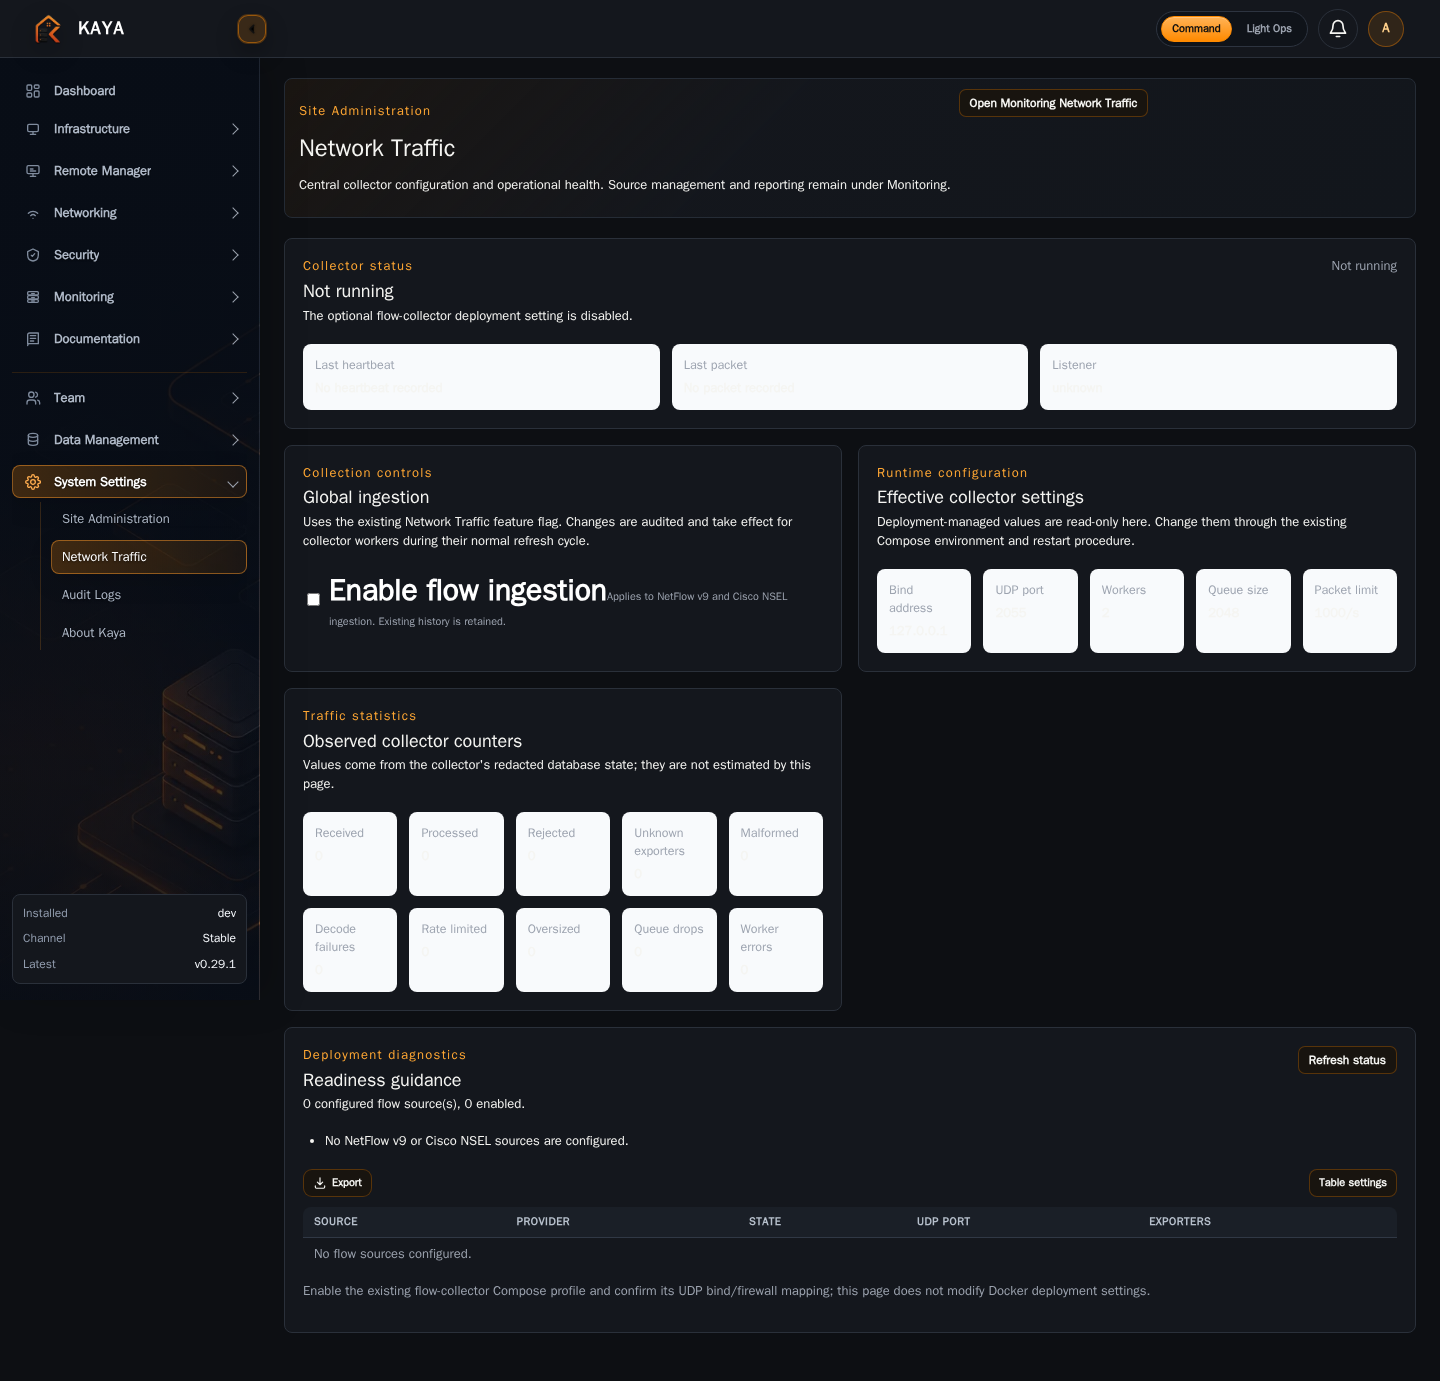
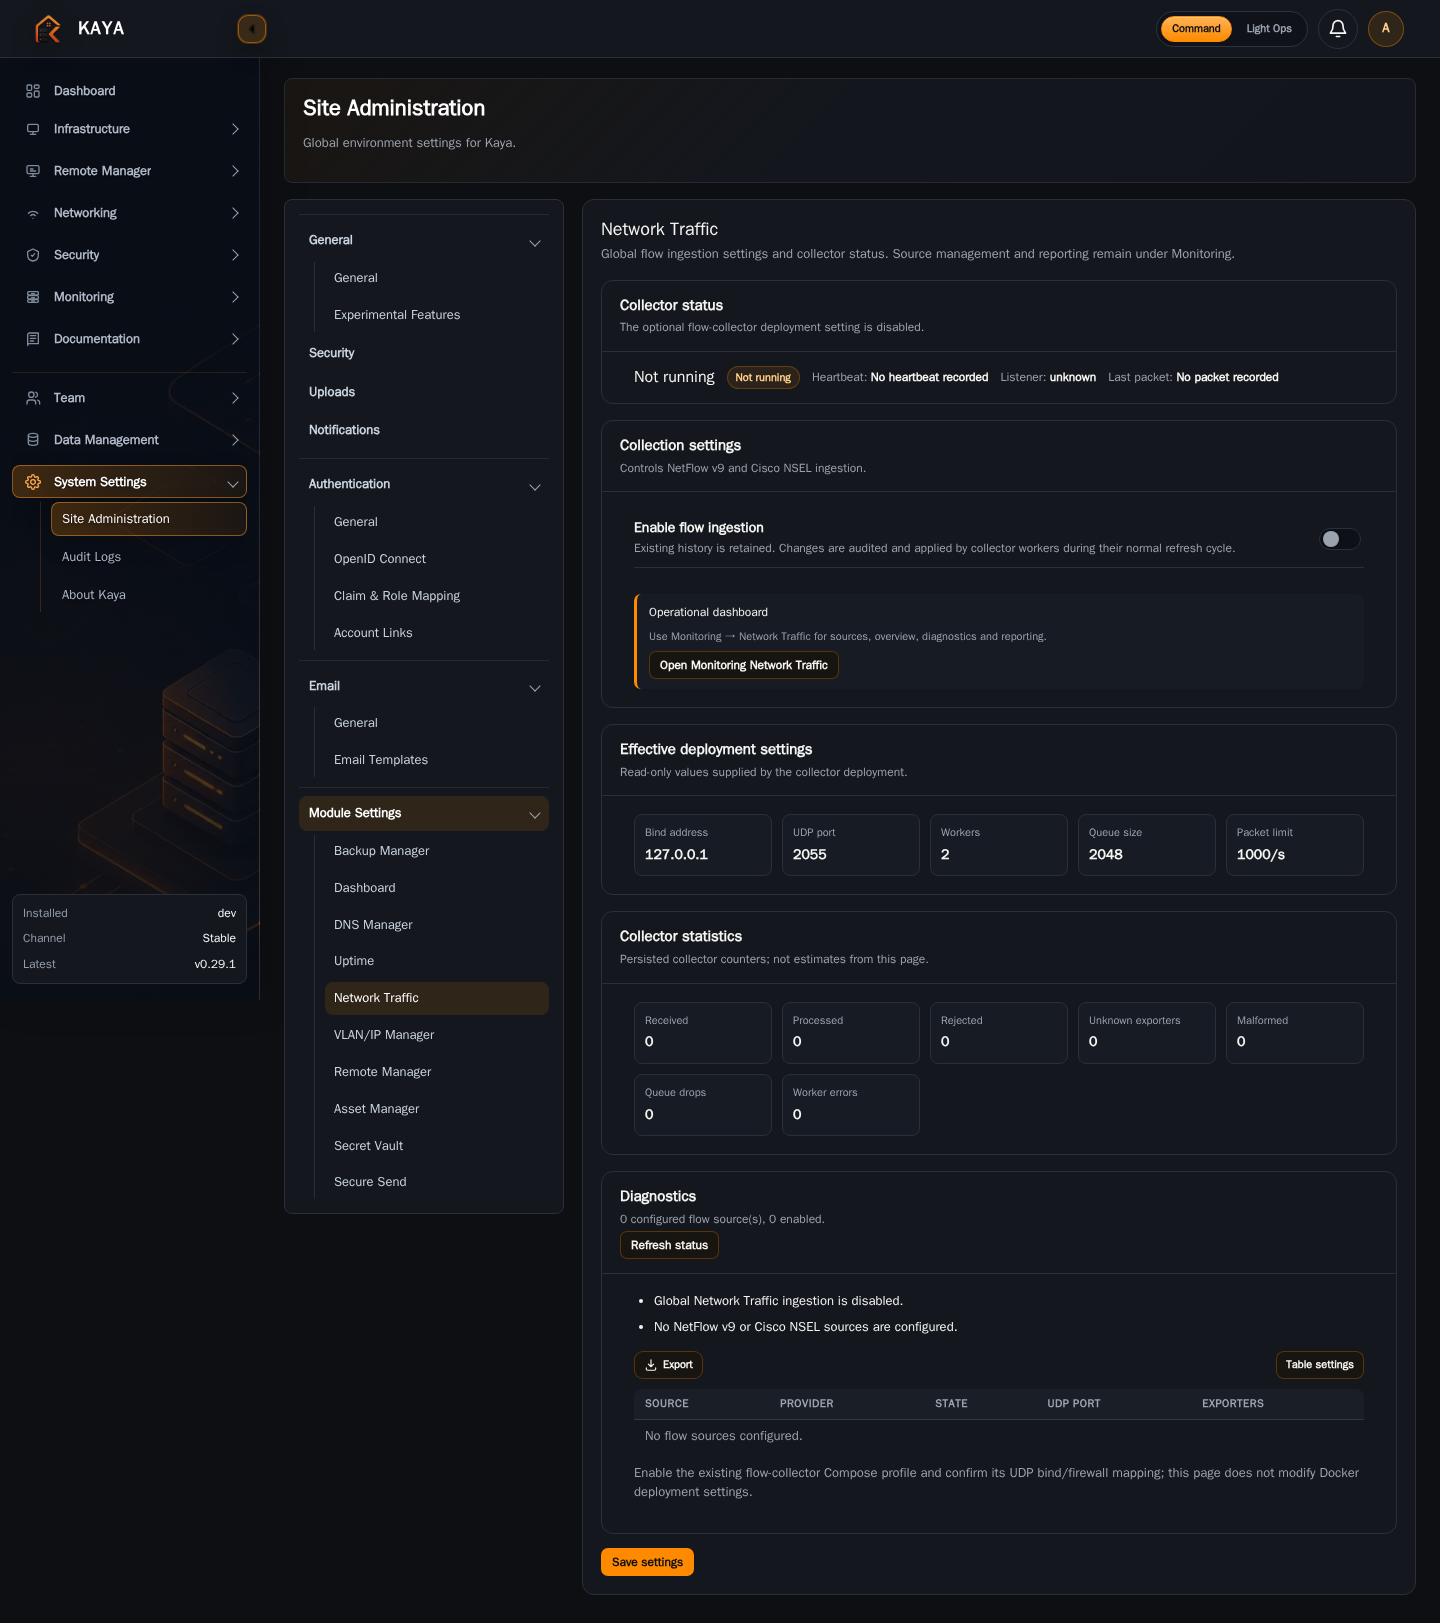
COmmit Network Traffic fix

diff --git a/app/templates/_network_traffic_admin_panel.html b/app/templates/_network_traffic_admin_panel.html
@@ -1,0 +1,35 @@
+<div class="network-traffic-admin-settings" data-network-traffic-admin data-csrf="{{ csrf_token }}">
+  <div class="ip-wan-admin-heading">
+    <h2>Network Traffic</h2>
+    <p class="muted">Global flow ingestion settings and collector status. Source management and reporting remain under Monitoring.</p>
+  </div>
+
+  <article class="remote-settings-card network-traffic-admin-status-card">
+    <header class="settings-card-heading"><span>Collector status</span><small data-admin-status-reason>{{ network_traffic_status.status_reason }}</small></header>
+    <div class="network-traffic-status-summary"><strong data-admin-status-label>{{ network_traffic_status.status_label }}</strong><span class="table-chip" data-admin-status>{{ network_traffic_status.status_label }}</span><span>Heartbeat: <b data-admin-heartbeat>{{ network_traffic_status.heartbeat_at or 'No heartbeat recorded' }}</b></span><span>Listener: <b data-admin-listener>{{ network_traffic_status.listener_state }}</b></span><span>Last packet: <b data-admin-last-packet>{{ network_traffic_status.last_packet_at or 'No packet recorded' }}</b></span></div>
+  </article>
+
+  <article class="remote-settings-card">
+    <header class="settings-card-heading"><span>Collection settings</span><small>Controls NetFlow v9 and Cisco NSEL ingestion.</small></header>
+    <div class="ip-wan-card-body">
+      <label class="remote-setting-row compact-toggle-row"><span><strong>Enable flow ingestion</strong><small>Existing history is retained. Changes are audited and applied by collector workers during their normal refresh cycle.</small></span><input class="remote-switch" type="checkbox" data-admin-enabled {% if network_traffic_status.global_enabled %}checked{% endif %}></label>
+      <p class="muted" data-admin-control-status></p>
+      <div class="settings-callout"><strong>Operational dashboard</strong><span>Use Monitoring → Network Traffic for sources, overview, diagnostics and reporting.</span><a class="button secondary" href="/networking/ip-wan-monitor/traffic">Open Monitoring Network Traffic</a></div>
+    </div>
+  </article>
+
+  <article class="remote-settings-card">
+    <header class="settings-card-heading"><span>Effective deployment settings</span><small>Read-only values supplied by the collector deployment.</small></header>
+    <div class="ip-wan-card-body"><dl class="admin-facts admin-facts-grid"><div><dt>Bind address</dt><dd data-admin-runtime="bind_address">{{ network_traffic_status.runtime.bind_address or 'Unknown' }}</dd></div><div><dt>UDP port</dt><dd data-admin-runtime="port">{{ network_traffic_status.runtime.port or 'Unknown' }}</dd></div><div><dt>Workers</dt><dd data-admin-runtime="workers">{{ network_traffic_status.runtime.workers or 'Unknown' }}</dd></div><div><dt>Queue size</dt><dd data-admin-runtime="queue_size">{{ network_traffic_status.runtime.queue_size or 'Unknown' }}</dd></div><div><dt>Packet limit</dt><dd data-admin-runtime="max_packets_per_second">{{ network_traffic_status.runtime.max_packets_per_second or 'Unknown' }}/s</dd></div></dl></div>
+  </article>
+
+  <article class="remote-settings-card">
+    <header class="settings-card-heading"><span>Collector statistics</span><small>Persisted collector counters; not estimates from this page.</small></header>
+    <div class="ip-wan-card-body"><dl class="admin-stat-grid">{% for key, label in [('packets_received','Received'),('packets_processed','Processed'),('packets_rejected','Rejected'),('unknown_exporters','Unknown exporters'),('malformed','Malformed'),('queue_drops','Queue drops'),('worker_errors','Worker errors')] %}<div><dt>{{ label }}</dt><dd data-admin-counter="{{ key }}">{{ network_traffic_status.counters[key] }}</dd></div>{% endfor %}</dl></div>
+  </article>
+
+  <article class="remote-settings-card network-traffic-admin-diagnostics">
+    <header class="settings-card-heading"><span>Diagnostics</span><small data-admin-source-summary>{{ network_traffic_status.sources.configured }} configured flow source(s), {{ network_traffic_status.sources.enabled }} enabled.</small><button class="button secondary" type="button" data-admin-refresh>Refresh status</button></header>
+    <div class="ip-wan-card-body"><ul data-admin-warnings>{% if network_traffic_status.warnings %}{% for warning in network_traffic_status.warnings %}<li>{{ warning }}</li>{% endfor %}{% else %}<li class="success">No known deployment warnings.</li>{% endif %}</ul><div class="admin-source-table-wrap"><table><thead><tr><th>Source</th><th>Provider</th><th>State</th><th>UDP port</th><th>Exporters</th></tr></thead><tbody data-admin-sources>{% for source in network_traffic_status.sources.rows %}<tr><th scope="row">{{ source.name }}</th><td>{{ source.provider }}</td><td>{{ 'Enabled' if source.enabled else 'Disabled' }} · {{ source.listener_state }}</td><td>{{ source.port or '—' }}</td><td>{{ source.exporter_count }}</td></tr>{% else %}<tr><td colspan="5" class="muted">No flow sources configured.</td></tr>{% endfor %}</tbody></table></div><p class="muted">{{ network_traffic_status.deployment_guidance }}</p></div>
+  </article>
+</div>

diff --git a/app/static/css/network_traffic_admin.css b/app/static/css/network_traffic_admin.css
@@ -1,1 +1,3 @@
-.network-traffic-admin-grid{display:grid;gap:16px;grid-template-columns:repeat(2,minmax(0,1fr));margin:20px auto;max-width:1280px}.network-traffic-admin-hero{align-items:flex-start}.network-traffic-admin-status-card,.network-traffic-admin-diagnostics{grid-column:1/-1}.network-traffic-admin-grid .card header{align-items:flex-start;display:flex;gap:16px;justify-content:space-between}.network-traffic-admin-grid h2{margin:4px 0}.network-traffic-admin-grid header p{margin:4px 0 0}.admin-facts,.admin-stat-grid{display:grid;gap:12px;margin:18px 0 0}.admin-facts{grid-template-columns:repeat(3,minmax(0,1fr))}.admin-facts-grid{grid-template-columns:repeat(5,minmax(0,1fr))}.admin-stat-grid{grid-template-columns:repeat(5,minmax(0,1fr))}.admin-facts div,.admin-stat-grid div{background:var(--surface-subtle,#f8fafc);border-radius:8px;padding:12px}.admin-facts dt,.admin-stat-grid dt{color:var(--muted);font-size:.78rem}.admin-facts dd,.admin-stat-grid dd{font-weight:750;margin:5px 0 0;overflow-wrap:anywhere}.admin-traffic-toggle{margin-top:18px}.network-traffic-admin-diagnostics ul{display:grid;gap:8px;margin:18px 0;padding-left:22px}.network-traffic-admin-diagnostics li{overflow-wrap:anywhere}.network-traffic-admin-diagnostics li.success{color:var(--success,#15803d);list-style:none;padding-left:0}.admin-source-table-wrap{overflow-x:auto}.admin-source-table-wrap table{border-collapse:collapse;width:100%}.admin-source-table-wrap th,.admin-source-table-wrap td{border-bottom:1px solid var(--border,#e2e8f0);padding:10px;text-align:left;white-space:nowrap}@media(max-width:900px){.network-traffic-admin-grid{grid-template-columns:1fr}.admin-facts,.admin-facts-grid,.admin-stat-grid{grid-template-columns:repeat(2,minmax(0,1fr))}}@media(max-width:520px){.network-traffic-admin-grid{margin:12px 0}.network-traffic-admin-grid .card header{display:block}.network-traffic-admin-grid header .button{margin-top:12px}.admin-facts,.admin-facts-grid,.admin-stat-grid{grid-template-columns:1fr}}
+.network-traffic-admin-settings{display:grid;gap:16px;max-width:1120px}.network-traffic-admin-settings .remote-settings-card{margin:0;max-width:none}.network-traffic-admin-settings .settings-card-heading{align-items:flex-start;display:flex;flex-wrap:wrap;gap:6px;justify-content:space-between}.network-traffic-admin-settings .settings-card-heading span{font-size:15px}.network-traffic-admin-settings .settings-card-heading small{color:var(--muted);font-size:12px;font-weight:650;max-width:720px}.network-traffic-status-summary{align-items:center;display:flex;flex-wrap:wrap;gap:12px;padding:14px 18px}.network-traffic-status-summary strong{font-size:16px}.network-traffic-status-summary>span:not(.table-chip){color:var(--muted);font-size:12px}.network-traffic-status-summary b{color:var(--text);font-weight:750}.network-traffic-admin-settings .admin-facts,.network-traffic-admin-settings .admin-stat-grid{display:grid;gap:10px;margin:0}.admin-facts{grid-template-columns:repeat(3,minmax(0,1fr))}.admin-facts-grid{grid-template-columns:repeat(5,minmax(0,1fr))}.admin-stat-grid{grid-template-columns:repeat(auto-fit,minmax(120px,1fr))}.admin-facts div,.admin-stat-grid div{background:color-mix(in srgb,var(--panel2) 62%,transparent);border:1px solid var(--line);border-radius:8px;padding:10px}.admin-facts dt,.admin-stat-grid dt{color:var(--muted);font-size:11px}.admin-facts dd,.admin-stat-grid dd{font-size:14px;font-weight:800;margin:4px 0 0;overflow-wrap:anywhere}.network-traffic-admin-settings .admin-traffic-toggle{margin:0}.network-traffic-admin-settings .settings-callout{align-items:start;display:grid;gap:7px;max-width:760px}.network-traffic-admin-settings .settings-callout .button{justify-self:start}.network-traffic-admin-diagnostics ul{display:grid;gap:7px;margin:0 0 14px;padding-left:20px}.network-traffic-admin-diagnostics li{overflow-wrap:anywhere}.network-traffic-admin-diagnostics li.success{color:var(--accent2);list-style:none;padding-left:0}.admin-source-table-wrap{overflow-x:auto}.admin-source-table-wrap table{border-collapse:collapse;width:100%}.admin-source-table-wrap th,.admin-source-table-wrap td{border-bottom:1px solid var(--line);padding:9px;text-align:left;white-space:nowrap}.admin-source-table-wrap th{color:var(--muted);font-size:11px}.network-traffic-admin-settings [data-admin-control-status]{min-height:18px;margin:8px 0 0}.network-traffic-admin-settings [data-admin-control-status].is-error{color:var(--danger)}
+@media(max-width:800px){.admin-facts,.admin-facts-grid{grid-template-columns:repeat(2,minmax(0,1fr))}.network-traffic-status-summary{align-items:flex-start;flex-direction:column;gap:6px}}
+@media(max-width:520px){.network-traffic-admin-settings{gap:12px}.admin-facts,.admin-facts-grid{grid-template-columns:1fr}.network-traffic-admin-settings .settings-card-heading{display:grid}.network-traffic-admin-settings .settings-card-heading .button{width:100%}.network-traffic-status-summary{padding:12px}.network-traffic-admin-settings .ip-wan-card-body{padding:12px}.network-traffic-admin-settings .settings-callout .button{width:100%}}

diff --git a/app/templates/settings.html b/app/templates/settings.html
@@ -1,5 +1,5 @@
 {% extends "base.html" %}
-{% block extra_head %}<link rel="stylesheet" href="/static/css/remote.css?v={{ asset_version }}">{% endblock %}
+{% block extra_head %}<link rel="stylesheet" href="/static/css/remote.css?v={{ asset_version }}"><link rel="stylesheet" href="/static/css/network_traffic_admin.css?v={{ asset_version }}">{% endblock %}
 {% block content %}
 {% set module_access = module_access|default([], true) %}
 {% macro switch(name, title, description) -%}
@@ -63,6 +63,7 @@
           {% if 'dashboard' in module_access %}<a href="/system/site-administration?tab=module-dashboard" class="settings-side-child" data-settings-child-tab="module-dashboard" data-settings-parent="modules" aria-selected="false">Dashboard</a>{% endif %}
           {% if 'dns_manager' in module_access %}<a href="/system/site-administration?tab=module-dns-manager" class="settings-side-child" data-settings-child-tab="module-dns-manager" data-settings-parent="modules" aria-selected="false">DNS Manager</a>{% endif %}
           {% if 'network_monitor' in module_access %}<a href="/system/site-administration?tab=module-network-monitor" class="settings-side-child" data-settings-child-tab="module-network-monitor" data-settings-parent="modules" aria-selected="false">Uptime</a>{% endif %}
+          {% if 'network_monitor' in module_access %}<a href="/system/site-administration?tab=module-network-traffic" class="settings-side-child" data-settings-child-tab="module-network-traffic" data-settings-parent="modules" aria-selected="false">Network Traffic</a>{% endif %}
           {% if 'vlan_ip_manager' in module_access %}<a href="/system/site-administration?tab=module-vlan-ip-manager" class="settings-side-child" data-settings-child-tab="module-vlan-ip-manager" data-settings-parent="modules" aria-selected="false">VLAN/IP Manager</a>{% endif %}
           {% if 'remote_manager' in module_access %}<a href="/system/site-administration?tab=module-remote-manager" class="settings-side-child" data-settings-child-tab="module-remote-manager" data-settings-parent="modules" aria-selected="false">Remote Manager</a>{% endif %}
           {% if 'asset_manager' in module_access %}<a href="/system/site-administration?tab=module-asset-manager" class="settings-side-child" data-settings-child-tab="module-asset-manager" data-settings-parent="modules" aria-selected="false">Asset Manager</a>{% endif %}
@@ -240,6 +241,11 @@
       </div>
       <footer class="settings-card-footer wallboard-card-footer"><span>Changes to shared access may affect connected displays.</span><div><a class="button secondary" href="/system/site-administration?tab=module-network-monitor">Cancel changes</a><button class="button" name="wallboard_action" value="save" type="submit" formaction="/system/site-administration/ip-wan-monitor/wallboard" formmethod="post">Save Wallboard settings</button></div></footer>
     </div>
+  </section>
+  {% endif %}
+  {% if 'network_monitor' in module_access %}
+  <section class="settings-tab-panel" data-settings-panel="module-network-traffic" data-settings-parent="modules" role="tabpanel" hidden>
+    {% include "_network_traffic_admin_panel.html" with context %}
   </section>
   {% endif %}
   <section class="settings-tab-panel active" data-settings-panel="general" data-settings-parent="general" role="tabpanel">
@@ -960,4 +966,5 @@
 <script src="/static/js/dns_provider_settings.js?v={{ asset_version }}"></script>
 <script src="/static/js/ip_addresses.js?v={{ asset_version }}"></script>
 <script src="/static/js/network_monitor_wallboard_admin.js?v={{ asset_version }}"></script>
+<script src="/static/js/network_traffic_admin.js?v={{ asset_version }}" defer></script>
 {% endblock %}

diff --git a/app/templates/base.html b/app/templates/base.html
@@ -192,7 +192,6 @@
       <summary><span class="nav-icon" aria-hidden="true"><svg viewBox="0 0 24 24"><path d="M12 15.5a3.5 3.5 0 1 0 0-7 3.5 3.5 0 0 0 0 7Z"></path><path d="M19.4 15a1.7 1.7 0 0 0 .3 1.9l.1.1a2 2 0 0 1-2.8 2.8l-.1-.1a1.7 1.7 0 0 0-1.9-.3 1.7 1.7 0 0 0-1 1.6V21a2 2 0 0 1-4 0v-.1a1.7 1.7 0 0 0-1-1.6 1.7 1.7 0 0 0-1.9.3l-.1.1A2 2 0 0 1 4.2 17l.1-.1a1.7 1.7 0 0 0 .3-1.9 1.7 1.7 0 0 0-1.6-1H3a2 2 0 0 1 0-4h.1a1.7 1.7 0 0 0 1.6-1 1.7 1.7 0 0 0-.3-1.9L4.3 7A2 2 0 0 1 7 4.2l.1.1a1.7 1.7 0 0 0 1.9.3 1.7 1.7 0 0 0 1-1.6V3a2 2 0 0 1 4 0v.1a1.7 1.7 0 0 0 1 1.6 1.7 1.7 0 0 0 1.9-.3l.1-.1A2 2 0 0 1 19.8 7l-.1.1a1.7 1.7 0 0 0-.3 1.9 1.7 1.7 0 0 0 1.6 1h.1a2 2 0 0 1 0 4H21a1.7 1.7 0 0 0-1.6 1Z"></path></svg></span><span class="nav-label">System Settings</span></summary>
       <div class="nav-children">
         <a class="nav-link" href="/system/site-administration"><span class="nav-label">Site Administration</span></a>
-        {% if 'network_monitor' in module_access %}<a class="nav-link" href="/system/site-administration/network-traffic"><span class="nav-label">Network Traffic</span></a>{% endif %}
         <a class="nav-link" href="/system/audit-logs"><span class="nav-label">Audit Logs</span></a>
         <a class="nav-link" href="/system/about"><span class="nav-label">About {{ brand.name }}</span></a>
       </div>

diff --git a/app/routers/admin.py b/app/routers/admin.py
@@ -175,6 +175,7 @@ MODULE_SETTINGS_TABS = {
     "module-dashboard": "dashboard",
     "module-dns-manager": "dns_manager",
     "module-network-monitor": "network_monitor",
+    "module-network-traffic": "network_monitor",
     "module-vlan-ip-manager": "vlan_ip_manager",
     "module-remote-manager": "remote_manager",
     "module-asset-manager": "asset_manager",
@@ -2975,6 +2976,7 @@ def settings_page(
         {
             "user": user,
             "module_access": granted_module_keys(db, user),
+            "network_traffic_status": _network_traffic_admin_status(db),
             "settings": load_site_settings(db),
             "asset_tag_preview": next_asset_tag_preview(db),
             **wallboard_admin_context(request, db),
@@ -3028,14 +3030,15 @@ def _network_traffic_admin_status(db: Session) -> dict:
         status = "unknown"
         status_label = "Unknown"
         status_reason = "Collector runtime configuration could not be validated."
-    elif not runtime.get("enabled"):
-        status = "not_running"
-        status_label = "Not running"
-        status_reason = "The optional flow-collector deployment setting is disabled."
     elif global_state is None:
-        status = "not_detected"
-        status_label = "Not detected"
-        status_reason = "No collector heartbeat has been recorded. Start the optional flow-collector service."
+        if not runtime.get("enabled"):
+            status = "not_running"
+            status_label = "Not running"
+            status_reason = "The optional flow-collector deployment setting is disabled and no collector heartbeat is recorded."
+        else:
+            status = "not_detected"
+            status_label = "Not detected"
+            status_reason = "No collector heartbeat has been recorded. Start the optional flow-collector service."
     elif global_state.listener_state != "running":
         status = "not_running"
         status_label = "Not running"
@@ -3048,6 +3051,8 @@ def _network_traffic_admin_status(db: Session) -> dict:
         status = "healthy"
         status_label = "Running / Healthy"
         status_reason = "The collector is running and its database heartbeat is current."
+        if not runtime.get("enabled"):
+            status_reason += " Runtime telemetry is authoritative; the main Kaya container's optional deployment flag is disabled."
 
     counters = {
         "packets_received": global_state.packets_received if global_state else 0,
@@ -3126,11 +3131,7 @@ def network_traffic_admin_page(
     user=Depends(require_admin),
 ):
     require_module_settings_access(request, db, user, "network_monitor")
-    return templates.TemplateResponse(
-        request,
-        "network_traffic_admin.html",
-        {"user": user, "status": _network_traffic_admin_status(db), **csrf_context(request)},
-    )
+    return RedirectResponse("/system/site-administration?tab=module-network-traffic", status_code=303)
 
 
 @router.get("/system/site-administration/network-traffic/status")

diff --git a/tests/test_network_traffic_admin.py b/tests/test_network_traffic_admin.py
@@ -30,6 +30,11 @@ def test_admin_status_distinguishes_not_detected_from_healthy_and_stale(monkeypa
         assert status["status"] == "healthy"
         assert status["counters"]["packets_processed"] == 2
 
+        monkeypatch.setenv("KAYA_FLOW_COLLECTOR_ENABLED", "false")
+        status = _network_traffic_admin_status(db)
+        assert status["status"] == "healthy"
+        assert "telemetry is authoritative" in status["status_reason"]
+
         db.get(TrafficFlowCollectorGlobalState, 1).updated_at = now - timedelta(seconds=60)
         db.commit()
         assert _network_traffic_admin_status(db)["status"] == "unhealthy"
